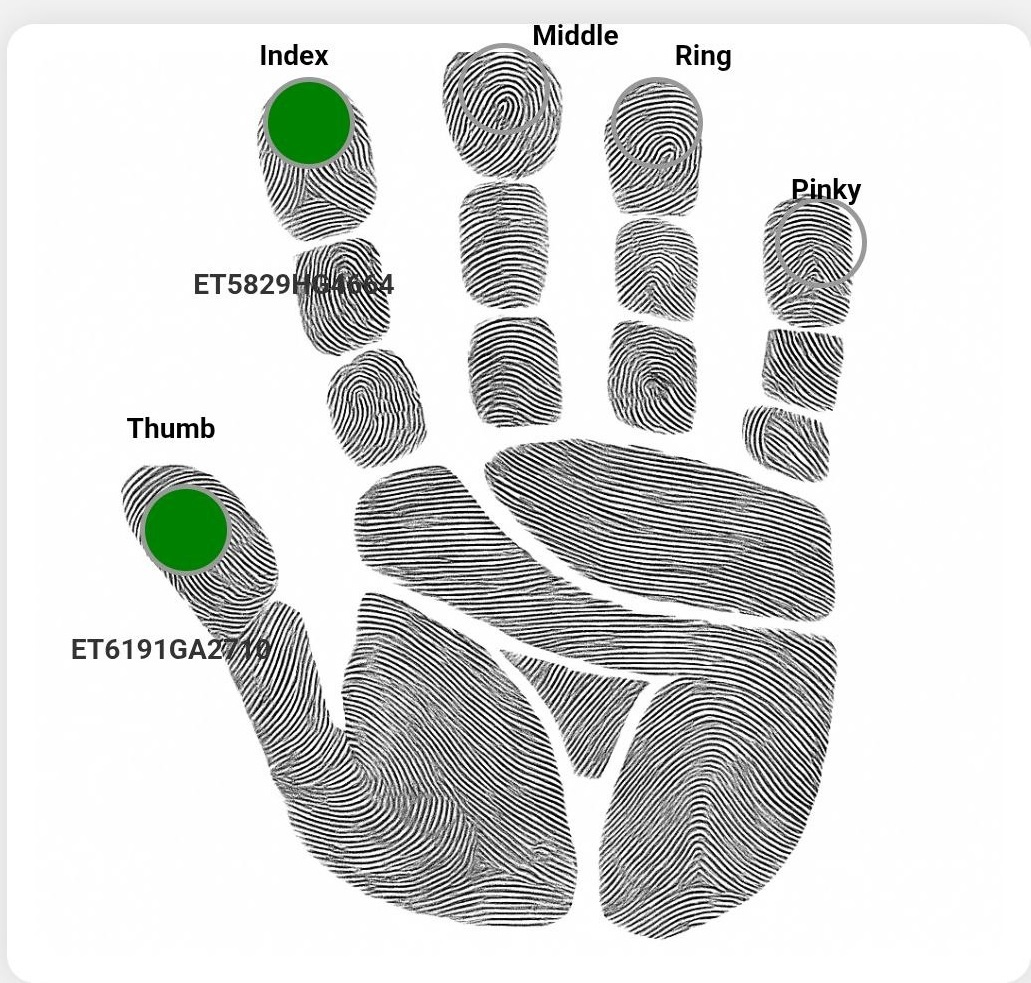
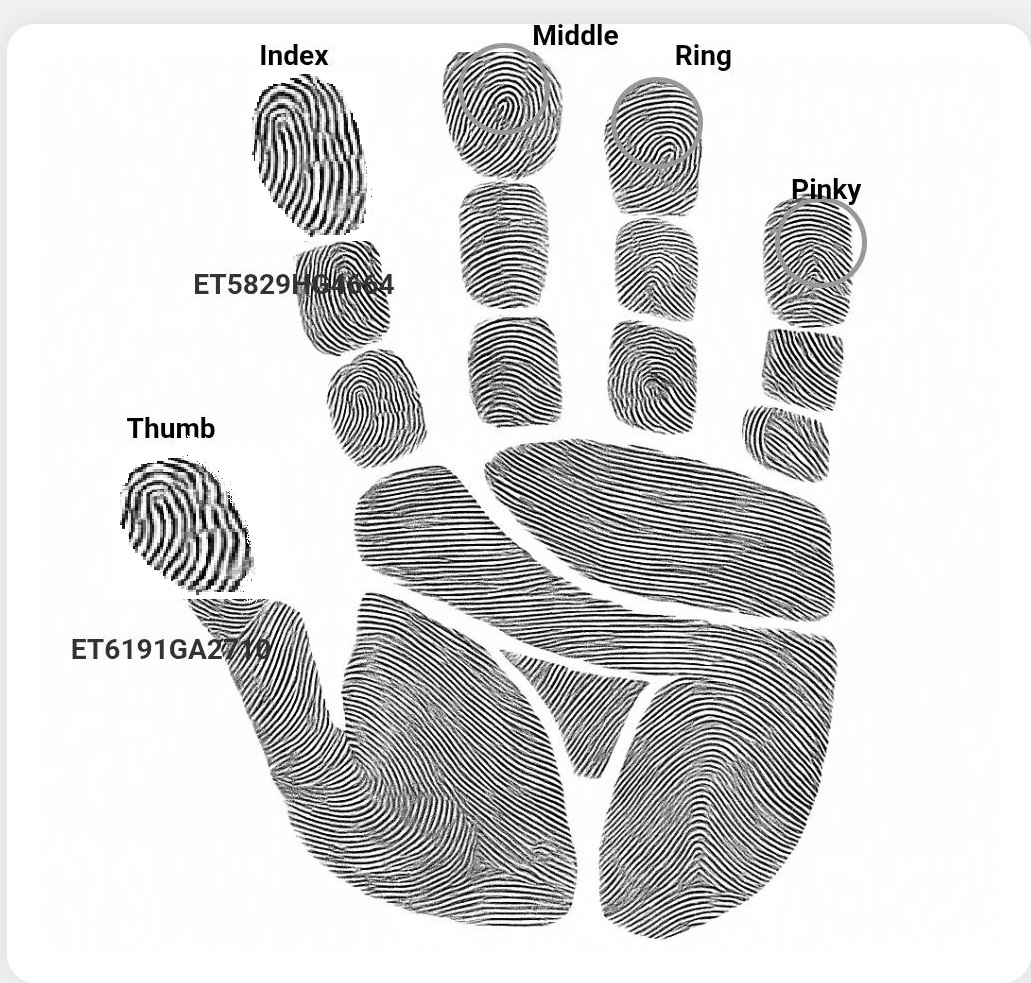
Add fingerprint scan finish + prevent re-registration feature

Changed region(s): [[0.2483, 0.061, 0.3725, 0.2442], [0.0931, 0.4578, 0.2793, 0.6104]]

diff --git a/src/components/FingerprintScan.js b/src/components/FingerprintScan.js
@@ -1,38 +1,41 @@
 import React, { useEffect, useState } from "react";
-import hand from "../assets/fingerprint.webp"; // replace with your hand image
-import logo from "../assets/logo.webp"; // replace with your actual logo
+import hand from "../assets/fingerprint.webp"; // your hand image
+import logo from "../assets/logo.webp"; // your logo
 import "./FingerprintScan.css";
 
 export default function FingerprintScan({ onFinish }) {
   const fingers = ["Thumb", "Index", "Middle", "Ring", "Little"];
   const [scanned, setScanned] = useState([]);
   const [status, setStatus] = useState("Touch and Hold Each Finger (4 seconds)");
-  const [statusColor, setStatusColor] = useState("#0e800c"); // default green
+  const [statusColor, setStatusColor] = useState("#0e800c"); // green default
   const [done, setDone] = useState(false);
 
+  // Handle scanning one finger
   const handleScan = (finger) => {
     if (scanned.includes(finger)) return;
 
     setStatus(`Scanning ${finger}...`);
-    setStatusColor("#d4a017"); // amber/yellow while scanning
+    setStatusColor("#d4a017"); // amber while scanning
 
     setTimeout(() => {
-      setScanned([...scanned, finger]);
+      setScanned((prev) => [...prev, finger]);
       setStatus(`${finger} Scanned`);
       setStatusColor("#007a00"); // green after scanned
     }, 1200);
   };
 
+  // When all fingers scanned
   useEffect(() => {
     if (scanned.length === fingers.length) {
       setStatus("✅ All fingers scanned — Ready to Register");
-      setStatusColor("#002e7e"); // blue when finished
+      setStatusColor("#002e7e"); // blue when done
       setDone(true);
     }
   }, [scanned, fingers.length]);
 
+  // When finish or register clicked
   const handleFinish = () => {
-    // ✅ Save to localStorage so user can’t register again
+    // ✅ Lock the browser so user can’t register again
     localStorage.setItem("registeredUser", "true");
     onFinish();
   };
@@ -58,10 +61,10 @@ export default function FingerprintScan({ onFinish }) {
           {status}
         </p>
 
+        {/* Hand and Finger Spots */}
         <div className="hand-area">
           <img src={hand} alt="Hand" className="hand-img" />
 
-          {/* === FINGER SENSORS === */}
           <div
             className={`finger-spot ${scanned.includes("Thumb") ? "scanned" : ""}`}
             style={{ top: "162px", left: "50px" }}
@@ -93,15 +96,13 @@ export default function FingerprintScan({ onFinish }) {
           ></div>
         </div>
 
-        {/* Finish + Register Buttons */}
+        {/* Buttons appear when done */}
         {done && (
           <div className="button-area">
             <button className="finish-btn" onClick={handleFinish}>
               Finish
             </button>
-            <button className="register-btn" onClick={handleFinish}>
-              Register
-            </button>
+            
           </div>
         )}
       </div>
